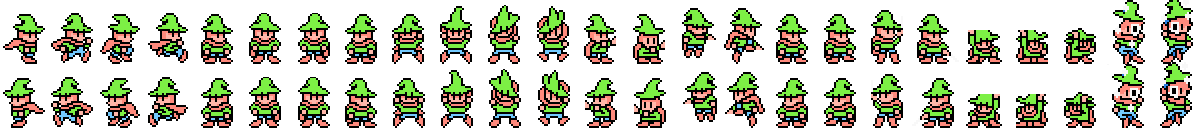
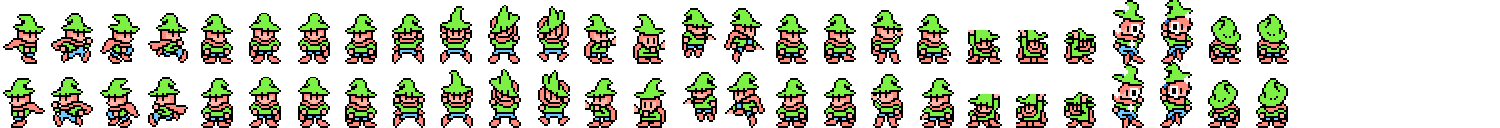
more sound effects, adding sleep animation

diff --git a/js/firenice.js b/js/firenice.js
@@ -44,6 +44,8 @@ var ANIM_CROUCH_START = 20;
 var ANIM_CROUCH_END = 22;
 var ANIM_RIP_START = 23;
 var ANIM_RIP_END = 24;
+var ANIM_SLEEP_START = 25;
+var ANIM_SLEEP_END = 26;
 
 var TILE_MIDDLE = 0;
 var TILE_LEFT = 32;
@@ -164,7 +166,7 @@ function Sound(){
 		"danger" : document.getElementById('sfx-danger'),
 		"ice-remove" : document.getElementById('sfx-ice-remove'),
 		"state-leave" : document.getElementById('sfx-state-leave')
-	}
+	};
 
 	this.play = function(sfx){
 		this.sfx[sfx].volume = this.sfxVolume;
@@ -474,6 +476,7 @@ var Player = function(engine, tx, ty){
     this.animDelay = 3;
     this.counter = 0;
     this.fallCounter = 0;
+    this.standCounter = 0;
     return this;
 };
 Player.inherits(AnimSprite);
@@ -505,7 +508,7 @@ Player.prototype.left = function() {
             if(this.coorners.l == OBJECT_ICE){
                 this.push();
             }
-            //climbe
+            //climb
             if (Tile.isSolid(this.coorners.l) && Tile.isSolid(this.coorners.d)  && !Tile.isSolid(this.coorners.u) && !Tile.isSolid(this.coorners.ul) && !this.moving) {
                 this.setAnim(ANIM_PUSH_START,ANIM_PUSH_START,false, ANIM_LEFT_ROW);
                 this.setState(MOVE_UP, true);
@@ -545,6 +548,7 @@ Player.prototype.right = function() {
 
 Player.prototype.burn = function() {
     if(this.state != MOVE_RIP){
+        this.engine.sound.playOnce('danger');
         this.setState(MOVE_RIP, true);
         this.setAnim(ANIM_RIP_START,ANIM_RIP_END, true, ANIM_RIGHT_ROW);
     }
@@ -642,7 +646,11 @@ Player.prototype.doGravity = function() {
 };
 Player.prototype.doStand = function() {
     if(!Tile.isSolid(this.coorners.u)){
-        this.setAnim(ANIM_STAND_START,ANIM_STAND_END,true, this.dirrection != 1 ? ANIM_LEFT_ROW : ANIM_RIGHT_ROW, 8, true);
+        if(this.standCounter++ > 500){
+            this.setAnim(ANIM_SLEEP_START,ANIM_SLEEP_END,true, this.dirrection != 1 ? ANIM_LEFT_ROW : ANIM_RIGHT_ROW, 48, true);
+        } else {
+            this.setAnim(ANIM_STAND_START,ANIM_STAND_END,true, this.dirrection != 1 ? ANIM_LEFT_ROW : ANIM_RIGHT_ROW, 8, true);
+        }
     }else{
         this.setAnim(ANIM_CROUCH_START,ANIM_CROUCH_START, false, this.dirrection != 1 ? ANIM_LEFT_ROW : ANIM_RIGHT_ROW, 8, true);
     }
@@ -729,6 +737,9 @@ Player.prototype.draw = function(){
 Player.prototype.move = function (){
     Sprite.prototype.move.call(this);
     this.gravity();
+    if(this.state != MOVE_STAND){
+        this.standCounter = 0;
+    }
     switch (this.state) {
         case MOVE_RIGHT:
             this.doRun();
@@ -826,6 +837,7 @@ var Ice = function(engine, tx, ty, length, frozen){
     this.old_tx = 0;
     this.old_ty = 0;
     this.dirrection = 0;
+    this.falling = false;
     this.id = OBJECT_ICE;
     if((this.getTile(this.xtile-1, this.ytile) == OBJECT_WALL) ||
         (this.getTile(this.xtile+this.length, this.ytile) == OBJECT_WALL))
@@ -891,8 +903,13 @@ Ice.prototype.canGlide = function(dir){
 
 Ice.prototype.gravity = function() {
     if(!this.coorners.d && !this.frozen){
+        this.falling = true;
         this.setState(MOVE_DOWN, true);
         return true;
+    }
+    if(this.falling){
+        this.falling = false;
+        this.engine.sound.play('ice-collision');
     }
     return false;
 };
@@ -1389,6 +1406,7 @@ Engine.prototype.collision = function() {
                         fire.xtile < ice.xtile+ice.length  &&
                         fire.ytile  == ice.ytile)
                     {
+                        this.sound.play('fire-off');
                         this.removeFire(fire.xtile, fire.ytile);
                         this.removeIceBlock(fire.xtile, fire.ytile);
                         this.addSfx(new Sparks(this, fire.xtile, fire.ytile,

diff --git a/src/player.js b/src/player.js
@@ -14,6 +14,7 @@ var Player = function(engine, tx, ty){
     this.animDelay = 3;
     this.counter = 0;
     this.fallCounter = 0;
+    this.standCounter = 0;
     return this;
 };
 Player.inherits(AnimSprite);
@@ -45,7 +46,7 @@ Player.prototype.left = function() {
             if(this.coorners.l == OBJECT_ICE){
                 this.push();
             }
-            //climbe
+            //climb
             if (Tile.isSolid(this.coorners.l) && Tile.isSolid(this.coorners.d)  && !Tile.isSolid(this.coorners.u) && !Tile.isSolid(this.coorners.ul) && !this.moving) {
                 this.setAnim(ANIM_PUSH_START,ANIM_PUSH_START,false, ANIM_LEFT_ROW);
                 this.setState(MOVE_UP, true);
@@ -85,6 +86,7 @@ Player.prototype.right = function() {
 
 Player.prototype.burn = function() {
     if(this.state != MOVE_RIP){
+        this.engine.sound.playOnce('danger');
         this.setState(MOVE_RIP, true);
         this.setAnim(ANIM_RIP_START,ANIM_RIP_END, true, ANIM_RIGHT_ROW);
     }
@@ -182,7 +184,11 @@ Player.prototype.doGravity = function() {
 };
 Player.prototype.doStand = function() {
     if(!Tile.isSolid(this.coorners.u)){
-        this.setAnim(ANIM_STAND_START,ANIM_STAND_END,true, this.dirrection != 1 ? ANIM_LEFT_ROW : ANIM_RIGHT_ROW, 8, true);
+        if(this.standCounter++ > 500){
+            this.setAnim(ANIM_SLEEP_START,ANIM_SLEEP_END,true, this.dirrection != 1 ? ANIM_LEFT_ROW : ANIM_RIGHT_ROW, 48, true);
+        } else {
+            this.setAnim(ANIM_STAND_START,ANIM_STAND_END,true, this.dirrection != 1 ? ANIM_LEFT_ROW : ANIM_RIGHT_ROW, 8, true);
+        }
     }else{
         this.setAnim(ANIM_CROUCH_START,ANIM_CROUCH_START, false, this.dirrection != 1 ? ANIM_LEFT_ROW : ANIM_RIGHT_ROW, 8, true);
     }
@@ -269,6 +275,9 @@ Player.prototype.draw = function(){
 Player.prototype.move = function (){
     Sprite.prototype.move.call(this);
     this.gravity();
+    if(this.state != MOVE_STAND){
+        this.standCounter = 0;
+    }
     switch (this.state) {
         case MOVE_RIGHT:
             this.doRun();

diff --git a/src/ice.js b/src/ice.js
@@ -12,6 +12,7 @@ var Ice = function(engine, tx, ty, length, frozen){
     this.old_tx = 0;
     this.old_ty = 0;
     this.dirrection = 0;
+    this.falling = false;
     this.id = OBJECT_ICE;
     if((this.getTile(this.xtile-1, this.ytile) == OBJECT_WALL) ||
         (this.getTile(this.xtile+this.length, this.ytile) == OBJECT_WALL))
@@ -77,8 +78,13 @@ Ice.prototype.canGlide = function(dir){
 
 Ice.prototype.gravity = function() {
     if(!this.coorners.d && !this.frozen){
+        this.falling = true;
         this.setState(MOVE_DOWN, true);
         return true;
+    }
+    if(this.falling){
+        this.falling = false;
+        this.engine.sound.play('ice-collision');
     }
     return false;
 };

diff --git a/src/engine.js b/src/engine.js
@@ -52,6 +52,7 @@ Engine.prototype.collision = function() {
                         fire.xtile < ice.xtile+ice.length  &&
                         fire.ytile  == ice.ytile)
                     {
+                        this.sound.play('fire-off');
                         this.removeFire(fire.xtile, fire.ytile);
                         this.removeIceBlock(fire.xtile, fire.ytile);
                         this.addSfx(new Sparks(this, fire.xtile, fire.ytile,

diff --git a/src/constants.js b/src/constants.js
@@ -42,6 +42,8 @@ var ANIM_CROUCH_START = 20;
 var ANIM_CROUCH_END = 22;
 var ANIM_RIP_START = 23;
 var ANIM_RIP_END = 24;
+var ANIM_SLEEP_START = 25;
+var ANIM_SLEEP_END = 26;
 
 var TILE_MIDDLE = 0;
 var TILE_LEFT = 32;
